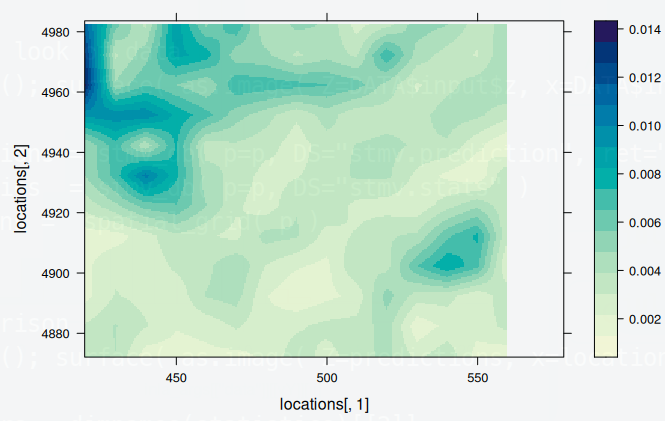
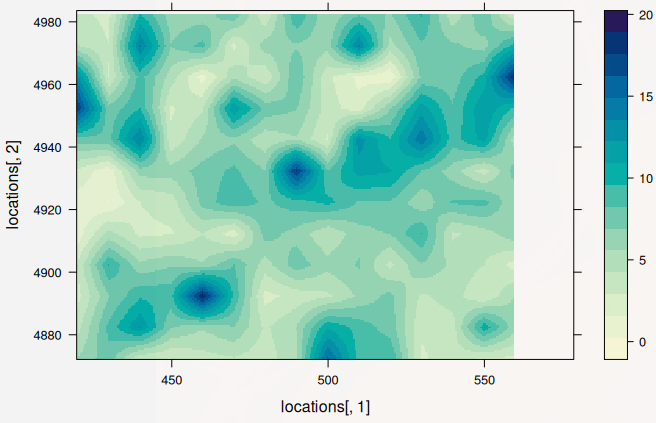
add fix isoclines

diff --git a/inst/scripts/01_bathymetry_stmv_example.md b/inst/scripts/01_bathymetry_stmv_example.md
@@ -1,9 +1,9 @@
 
 # Bathymetry modelling and prediction using STMV
 
-Spatial interpolation using [STMV - Space-Time Models of Variability](https://github.com/jae0/stmv) involves modelling the autocorrelation function of some feature of interest. STMV comes from the tradition of *Kriging with external drift*, where external drift represents some externally imposed gradient that is first modelled and then the residuals are modelled as some spatial process. This is, therefore, slightly ad-hoc in approach in that the external forcing is treated separately (modelled via MGCV or GLM) from the random spatial processes. Improved results would be expected if Expectation-Maximization or Gibbs sampling is used. However, due to computational expenses, this was not available when constructed. This may change soon and I might update the approach, time being the constraint. 
+Spatial interpolation using [STMV - Space-Time Models of Variability](https://github.com/jae0/stmv) involves modelling the autocorrelation function of some feature of interest. STMV comes from the tradition of *Kriging with external drift*, where external drift represents some externally imposed gradient that is first modelled and then the residuals are modelled as some spatial process. This is, therefore, an ad-hoc approach in that the external forcing is treated separately (modelled via MGCV or GLM) from the random spatial processes. The Random processes are subjected to a moving windows that incrementally grow dependning upon local estimates spatial of autocorrelation functions. Improved results would be expected if Expectation-Maximization or Gibbs sampling is used. However, due to computational load, this was not available when constructed. This may change soon and I might update the approach, time being the constraint. 
 
-The example here uses FFT (Fast Fourier Transforms) to discretize the spatial autocorrelation process (Matern). It is the method of choice for speed and ability to capture the variability .. this should take just a few minutes
+The example here uses FFT (Fast Fourier Transforms) to discretize and compute the spatial autocorrelation process (Matern). It is the method of choice for speed and ability to capture the variability ... the following should take just a few minutes
 
 ```r
 # prep data
@@ -177,14 +177,16 @@ statistics  = stmv_db( p=p, DS="stmv.stats" )
 locations =  spatial_grid( p )
 
 
-# comparison
-dev.new(); surface( as.image( Z=predictions, x=locations, nx=p$nplons, ny=p$nplats, na.rm=TRUE) )
+# comparison .. need to remove NA's that messes up isolines
+i = which( is.finite(predictions )) 
+o = interp( x=locations[i,1], y=locations[i,2], z= predictions[i],  xo=p$plons, yo=p$plats, method="linear" )
+dev.new(); surface( o )
 
 ```
 
 ![](../../docs/media/bathymetry_stmv.png)
 
-We can see that it recovers most of the oceanographic features and as a bonus even the land features that are sampled on very different scales. The vertical line artifact is due to a plotting issue with *fields::surface*'s isocline interpolation options that I will have to fix. 
+We can see that it recovers most of the oceanographic features and as a bonus even the land features that are sampled on very different scales. 
 
 
 What makes STMV unique is the non-stationary assumption of the spatial process. As such, we can recover estimates of spatial parameters as a function of location!
